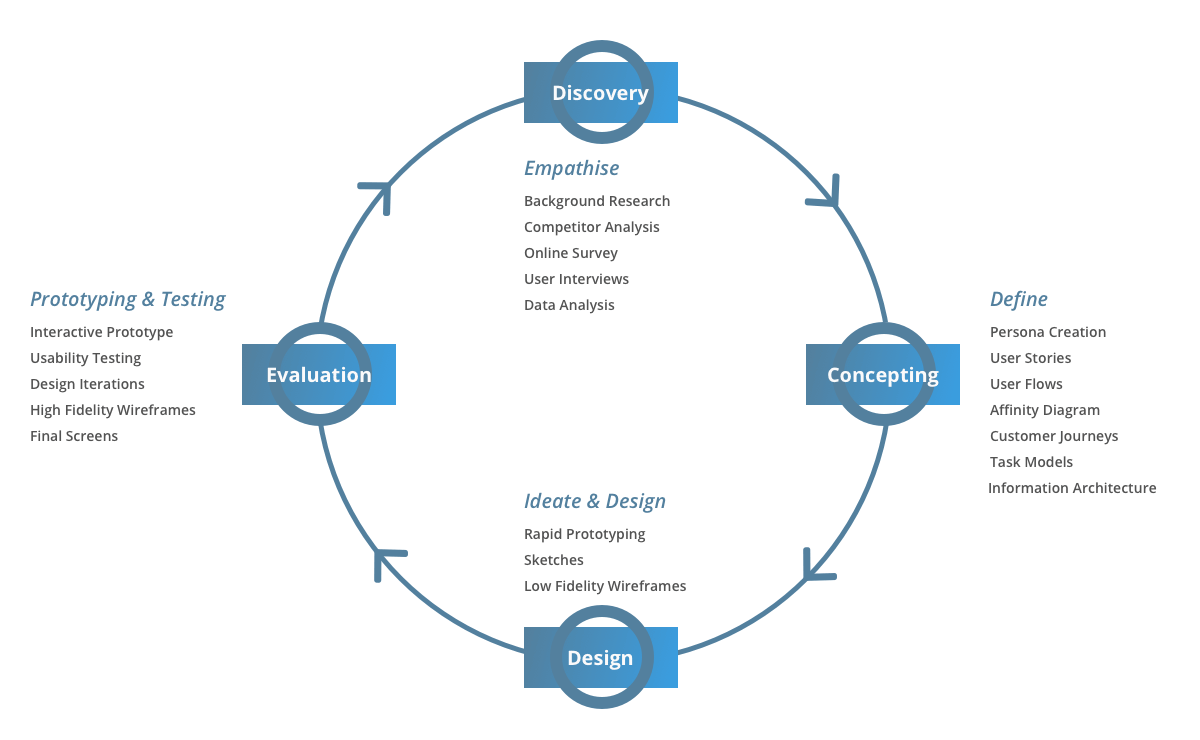
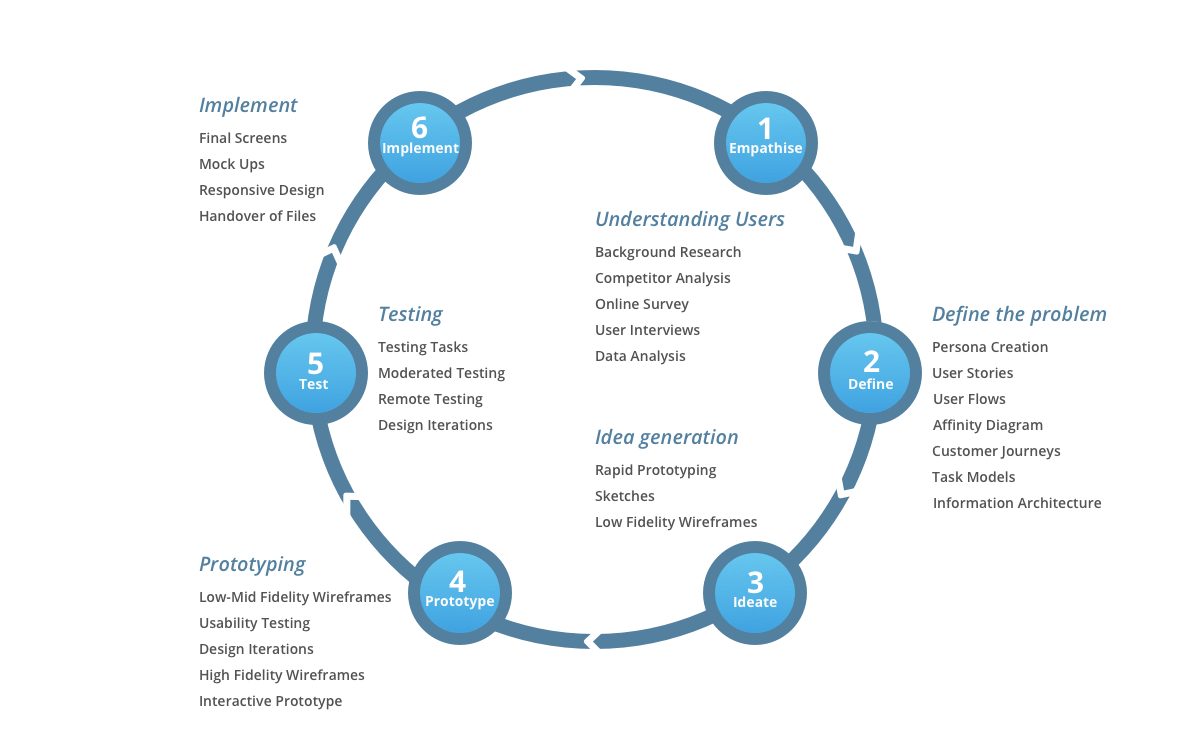
adding timeline image

diff --git a/portfolio/about.html b/portfolio/about.html
@@ -128,16 +128,33 @@
 
             
   </div>
+  
+  
+  <div class="row">
+       <div class="col-xs-12 col-sm-12 col-md-12 col-lg-12 ">
+         <p class=" text-center work-header  blue-brand">My Journey to UX</p>
+ </div>
+ </div>
+  
+  <div class="row">
+     <div class="col-xs-12 col-sm-12 col-md-12 col-lg-12 image-padding ">
+    <img src="../assets/images/Timeline.png" style="background-color:#FFF;" class="img-responsive" alt="UCD Process">
+	         
+	            
+  </div>
+  
+  
+  
 
  <div class="row">
        <div class="col-xs-12 col-sm-12 col-md-12 col-lg-12 ">
-         <p class=" text-center work-header  blue-brand">My Process</p>
+         <p class=" text-center work-header  blue-brand">My UX Process</p>
  </div>
  </div>
 
 
  <div class="row">
-     <div class="col-xs-12 col-sm-12 col-md-12 col-lg-12 image-padding ">
+     <div class="col-xs-12 col-sm-12 col-md-12 col-lg-12 aboutimage-padding ">
     <img src="../assets/images/UCDProcess-min.png" style="background-color:#FFF;" class="img-responsive" alt="UCD Process">
 	         
 	            

diff --git a/assets/css/style.css b/assets/css/style.css
@@ -399,8 +399,8 @@ section {
    
    
    .righttrack_xs {
-       padding-top:100px;
-       padding-bottom:50px;
+       padding-top:50px;
+       padding-bottom:150px;
    }
    
    
@@ -616,6 +616,9 @@ section {
     
     .image-padding {
         padding-bottom: 50px;}
+        
+          .aboutimage-padding {
+        padding-bottom: 150px;}
         
         
         .left-image-padding
